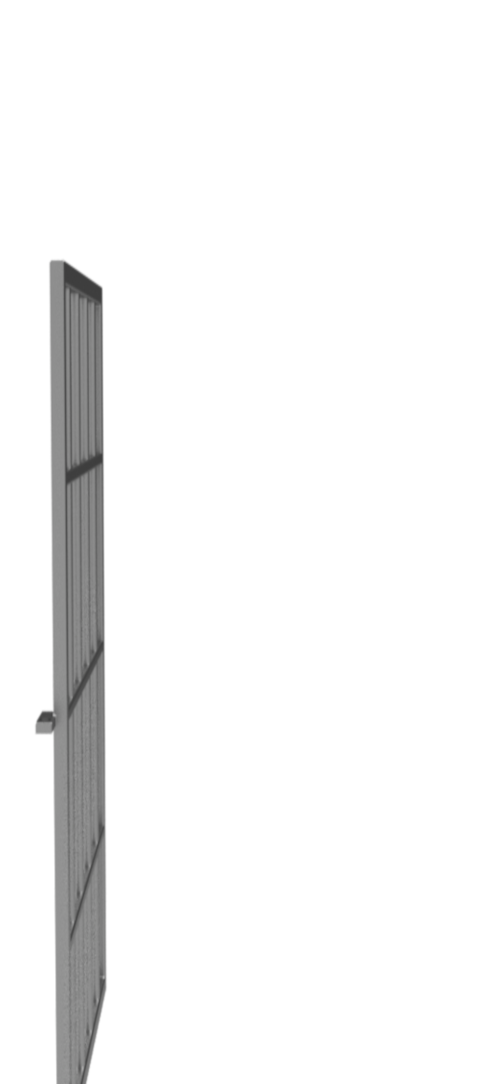
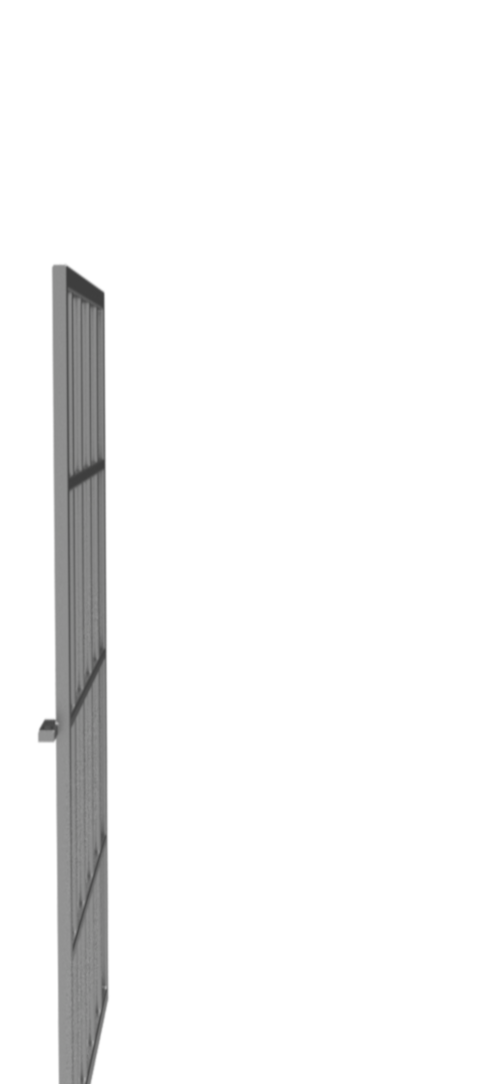
animation assets

Changed region(s): [[0.0622, 0.2435, 0.249, 1.0]]

diff --git a/BondageClub/Screens/Inventory/ItemDevices/Kennel/Kennel.js b/BondageClub/Screens/Inventory/ItemDevices/Kennel/Kennel.js
@@ -65,11 +65,12 @@ function InventoryItemDevicesKennelValidate(C, Item, Option) {
 	return Allowed;
 }
 
-function AssetsItemDevicesKennelBeforeDraw({ PersistentData, L, Property, LayerType, C }) {
+function AssetsItemDevicesKennelBeforeDraw({ PersistentData, L, Property }) {
+	if (L !== "_Door") return;
+	
 	const Data = PersistentData();
 	const Properties = Property || {};
 	const Type = Properties.Type ? Properties.Type : "Open";
-	if (L !== "_Door") return;
 
 	if (Data.DoorState >= 11 || Data.DoorState <= 1) Data.MustChange = false;
 
@@ -85,7 +86,7 @@ function AssetsItemDevicesKennelScriptDraw({ C, PersistentData, Item }) {
 	const Data = PersistentData();
 	const Properties = Item.Property || {};
 	const Type = Properties.Type ? Properties.Type : "Open";
-	const FrameTime = 120;
+	const FrameTime = 200;
 
 	if (typeof Data.DoorState !== "number") Data.DoorState = Type.startsWith("Closed") ? 11 : 1;
 	if (typeof Data.ChangeTime !== "number") Data.ChangeTime = CommonTime() + FrameTime;
